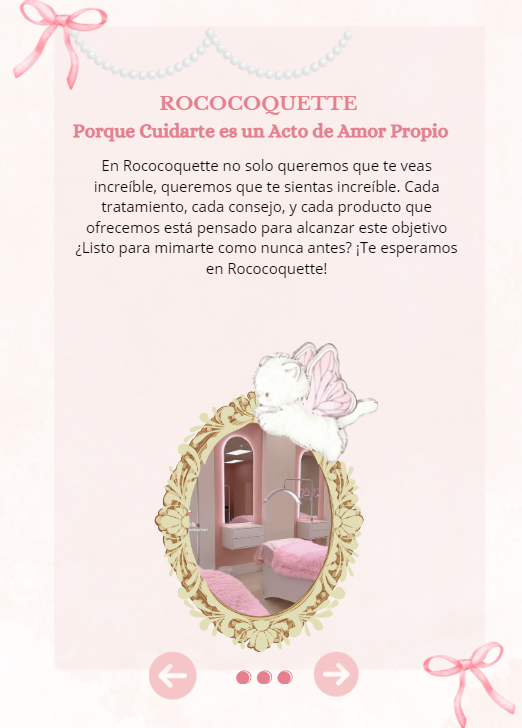
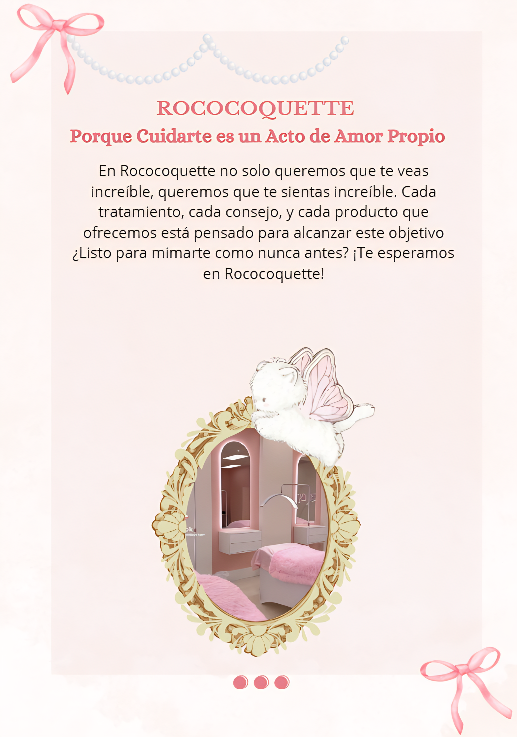
Se realizo carrusel sobre la empresa en la pagina de inicio de forma responsive para dispositivos de 480 px de ancho

diff --git a/assets/css/index.css b/assets/css/index.css
@@ -131,14 +131,14 @@ nav {
 
 /*Menu movil*/
 
-.ri-menu-line{
+.ri-menu-line {
     font-size: 3rem;
     cursor: pointer;
     display: none;
     color: #f19cb0;
 }
 
-.ri-close-fill{
+.ri-close-fill {
     display: none;
 }
 
@@ -213,6 +213,10 @@ nav {
 
 /* SOBRE LA EMPRESA */
 
+.imgCarruselMovil {
+    visibility: hidden;
+}
+
 .contenedorCarrusel {
     width: 100%;
     height: 55rem;
@@ -268,15 +272,16 @@ nav {
 /*MEDIA QUERIS*/
 @media (max-width: 480px) {
 
- /*menu*/   
-.header{
-    height: 5rem;
-}
+    /*menu*/
+    .header {
+        height: 5rem;
+    }
 
- .header .logo img {
-    height: 5rem;
-}
- .ri-menu-line {
+    .header .logo img {
+        height: 5rem;
+    }
+
+    .ri-menu-line {
         display: block;
         margin-left: 19.5rem;
         margin-bottom: 1rem;
@@ -299,7 +304,7 @@ nav {
 
     .registrarse {
         margin-left: 1.8rem;
-        
+
     }
 
     .miCuenta {
@@ -307,7 +312,7 @@ nav {
         margin-top: 1rem;
 
     }
-    
+
     .cuenta .miCuenta {
         font-size: 1.3rem;
         font-weight: 450;
@@ -324,16 +329,16 @@ nav {
         height: 54.5rem;
         margin-top: 49rem;
         z-index: 998;
-       
-        
+
+
     }
 
-    .cuenta a{
+    .cuenta a {
         font-size: 1rem;
     }
 
     /*Sublistas*/
-   
+
     li {
         display: none;
         top: 0%;
@@ -341,46 +346,47 @@ nav {
         padding: 0rem;
     }
 
-    .banner a{
+    .banner a {
         font-size: 1.2rem;
     }
+
     .lista li a {
         font-size: 1rem;
         padding-top: 1rem;
     }
 
-   .lista:hover li {
+    .lista:hover li {
         display: block;
     }
 
 
-    .anguloAbajo{
+    .anguloAbajo {
         display: flex;
-       flex-direction: column;
-       align-items: flex-end;
-       padding-left: 9.3rem;
-       margin-top: -1.2rem;
+        flex-direction: column;
+        align-items: flex-end;
+        padding-left: 9.3rem;
+        margin-top: -1.2rem;
     }
-    
-    .banner{
-    visibility: hidden;
+
+    .banner {
+        visibility: hidden;
     }
 
     .visible {
         visibility: visible;
     }
 
-    .ri-close-fill{
+    .ri-close-fill {
         font-size: 4rem;
         cursor: pointer;
         color: #f19cb0;
         margin-left: 9.5rem;
         display: block;
     }
-    
+
     /*home*/
 
-    .tablaSection{
+    .tablaSection {
         margin-top: 5rem;
         margin-left: 0.3rem;
     }
@@ -389,7 +395,7 @@ nav {
         grid-area: 1/ 1 / 1 / 3;
         width: 10rem;
     }
-    
+
     .ococoquette {
         grid-area: 2/ 1 / 2/ 3;
         font-size: 2.5rem;
@@ -399,20 +405,20 @@ nav {
         grid-area: 1/ 1 / 1/ 3;
         margin-top: 3rem;
     }
-    
+
     .imagenR {
         margin-top: 2.8rem;
         padding-left: 0rem;
         height: 6rem;
     }
-    
+
     .centroEstetica {
         grid-area: 2/ 1 / 3/ 5;
         font-size: 2rem;
         margin-top: 0rem;
         margin-left: 2.5rem;
     }
-    
+
     .conoceMas {
         grid-area: 2/ 1 / 5/ 4;
         width: auto;
@@ -420,7 +426,7 @@ nav {
         margin-top: 2rem;
         margin-left: 2.5rem;
     }
-    
+
     .conejoCorazon {
         grid-area: 2/ 1 / 5/ 5;
         width: 28rem;
@@ -436,5 +442,38 @@ nav {
         overflow: hidden;
         padding-top: 5rem;
     }
-    
+
+    .imgCarruselPc {
+        display: none;
+    }
+
+    .imgCarruselMovil {
+        visibility: visible;
+    }
+
+    .botonIzquierda,
+    .botonDerecha {
+       
+        top: 43rem;
+        
+    }
+
+    .botonIzquierda {
+        left: 5rem;
+    }
+
+    .botonDerecha {
+        right: 5rem;
+    }
+
+    .botonIzquierda img {
+        width: 9rem;
+    }
+
+    .botonDerecha img {
+        width: 10rem;
+    }
+    .contenedorCarrusel{
+        padding-top: 1rem;
+    }
 }

diff --git a/assets/pages/index.html b/assets/pages/index.html
@@ -95,13 +95,16 @@
     <section class="contenedorCarrusel">
         <div class="carruseles" id="slider">
             <section class="carruselSection">
-                <img src="../image/itemCarrusel1.jpg" alt="imagen bienvenida">
+                <img src="../image/itemCarrusel1.jpg" class="imgCarruselPc" alt="imagen bienvenida">
+                <img src="../image/img1CarruselMovil.png" class="imgCarruselMovil" alt="imagen bienvenida">
             </section>
             <section class="carruselSection">
-                <img src="../image/itemCarrusel2.jpg" alt="no especializamos en">
+                <img src="../image/itemCarrusel2.jpg" class="imgCarruselPc" alt="no especializamos en">
+                <img src="../image/img2CarruselMovil.png" class="imgCarruselMovil" alt="imagen bienvenida">
             </section>
             <section class="carruselSection">
-                <img src="../image/itemCarrusel3.jpg" alt="llamada a la accion">
+                <img src="../image/itemCarrusel3.jpg"  class="imgCarruselPc"  alt="llamada a la accion">
+                <img src="../image/img3CarruselMovil.png"  class="imgCarruselMovil" alt="imagen bienvenida">
             </section>
         </div>
         <div class="botonIzquierda"><img src="../image/flechasIconoIzquierda.png" alt=""></div>
